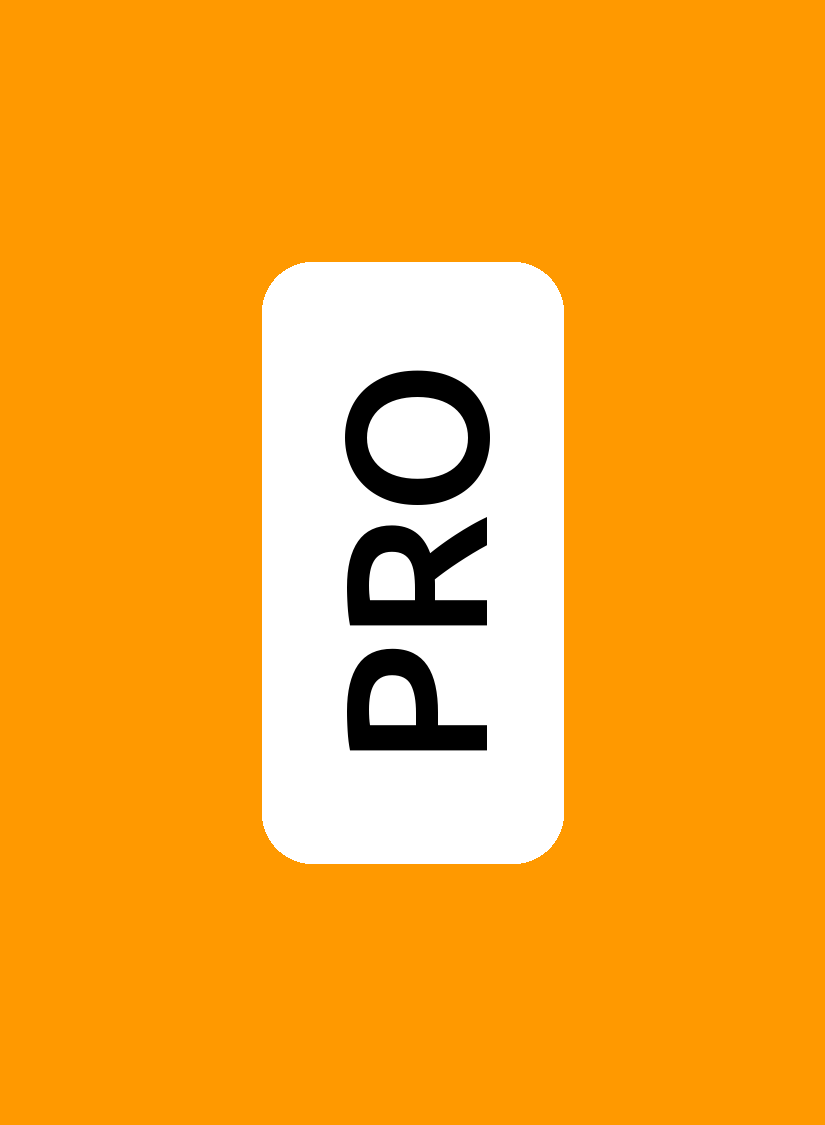
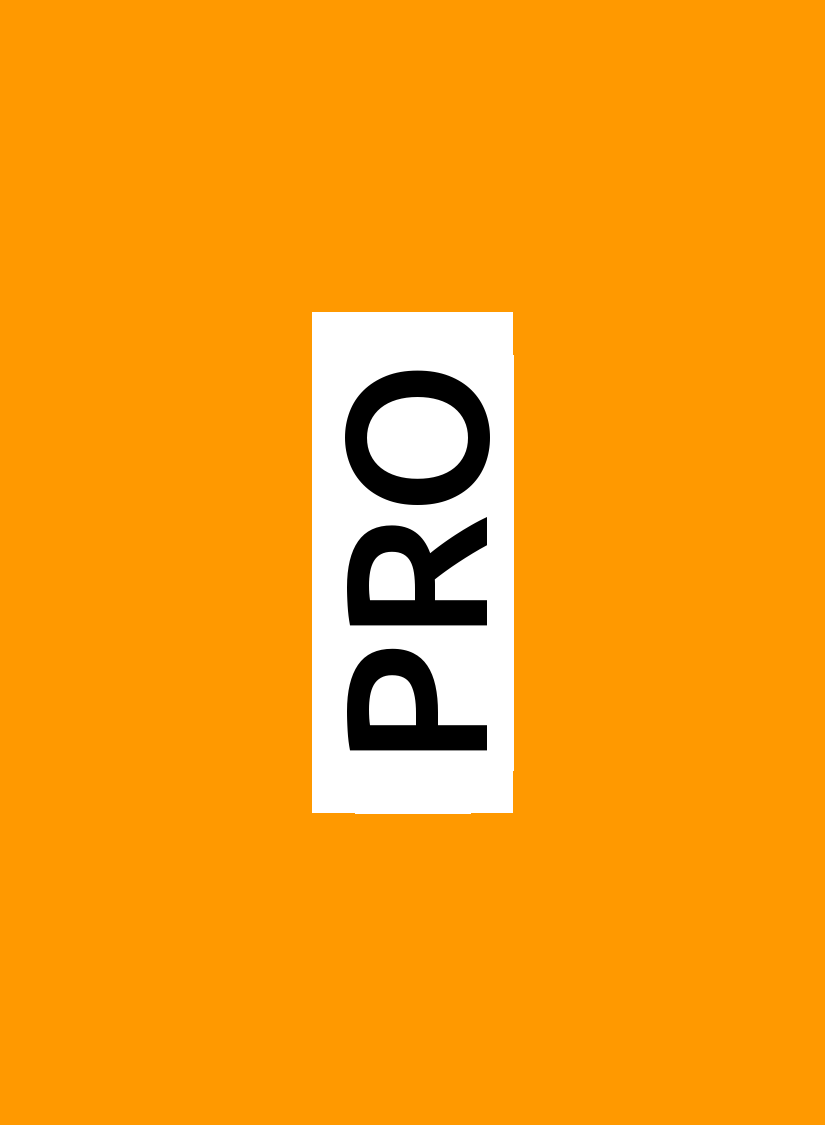
made helper file

Changed region(s): [[0.303, 0.2178, 0.697, 0.7778]]

diff --git a/proset.py b/proset.py
@@ -1,28 +1,16 @@
-from PIL import Image, ImageDraw, ImageFont
-
-width, height = 825, 1125 # for poker deck
+from sethelper import *
 
 colors = [(255,0,0), (255,255,0), (0,255,0), (0,255,255), (0,0,255), (255,0,255)] # in reading order
 diam = 261 # diameter (should be odd)
 dist = 320 # dist between circles' centers (should be even)
-x, y = width/2-dist/2-diam/2, height/2-dist-diam/2 # position of top left corner of bounding box of top left circle
-
+topleft = cardsize/2 - Point(dist/2+diam/2, dist+diam/2) # position of top left corner of bounding box of top left circle
 
 for n in range(1,64):
-	draw = ImageDraw.Draw(img := Image.new("RGB", (width,height), (255,255,255)))
+	draw = ImageDraw.Draw(img := Image.new("RGB", cardsize.coords, (255,255,255)))
 	for i,c in enumerate(colors):
 		if n>>i&1:
-			draw.ellipse([x+dist*(i%2), y+dist*(i//2), x+dist*(i%2)+diam, y+dist*(i//2)+diam], c, (0,0,0), 5)
+			t = topleft + Point(dist*(i%2), dist*(i//2))
+			draw.ellipse([t.coords, (t+Point(diam,diam)).coords], c, (0,0,0), 5)
 	img.save(f'proset/fronts/{n}.png')
 
-# back
-midw, midh = 201, 501 # should be odd
-rounding = 50
-draw = ImageDraw.Draw(img := Image.new("RGB", (width, height), (255,153,0)))
-draw.rounded_rectangle([(width-midw)/2-50, (height-midh)/2-50, (width+midw)/2+50, (height+midh)/2+50], rounding, (255,255,255))
-
-d = ImageDraw.Draw(txt := Image.new("L", (midh, midw), 255))
-d.text([midh/2, midw/2], 'PRO', 0, ImageFont.truetype("Ubuntu-M.ttf", 200), "mm")
-img.paste(txt.rotate(90, expand=True, fillcolor=255), [(width-midw)//2, (height-midh)//2])
-
-img.save('proset/back.png')
+setback('PRO', (255,153,0)).save('proset/back.png')

diff --git a/sethelper.py b/sethelper.py
@@ -1,0 +1,18 @@
+from continuousEngine.core.geometry import Point
+from PIL import Image, ImageDraw, ImageFont
+
+cardsize = Point(825, 1125) # poker deck on thegamecrafter.com
+
+
+def setback(text, color):
+	midsize = Point(201, 501) # should be odd
+	rounding = 50
+	draw = ImageDraw.Draw(img := Image.new("RGB", cardsize.coords, color))
+
+	draw.rounded_rectangle([(cardsize/2-midsize/2).coords, (cardsize/2+midsize/2).coords], rounding, (255,255,255))
+
+	d = ImageDraw.Draw(txt := Image.new("L", midsize.coords[::-1], 255))
+	d.text((midsize/2).coords[::-1], text, 0, ImageFont.truetype("Ubuntu-M.ttf", 200), "mm")
+	img.paste(txt.rotate(90, expand=True, fillcolor=255), ((cardsize-midsize)//2).coords)
+
+	return img
